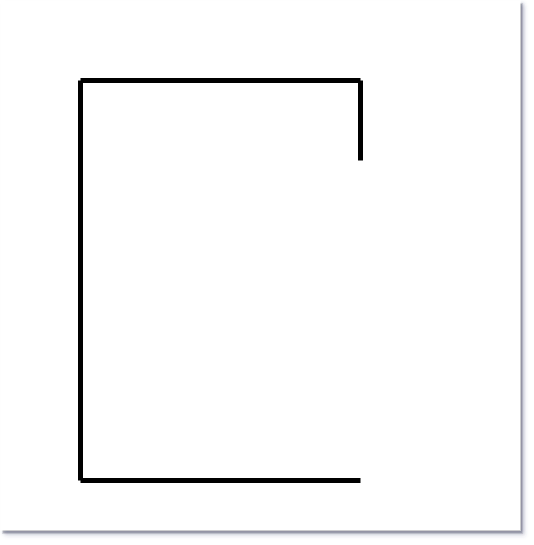
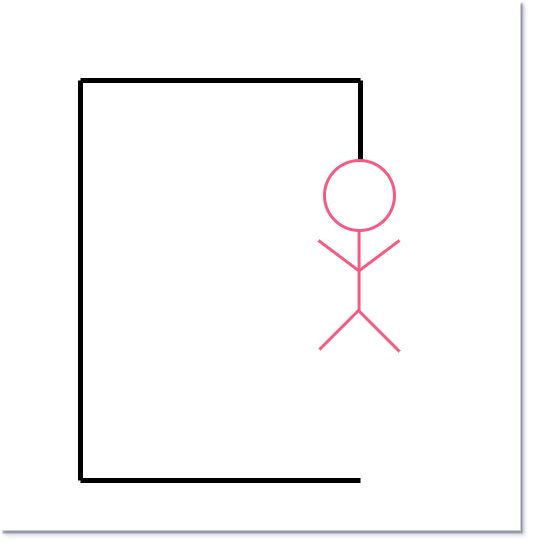
add guessGame Fuction

diff --git a/index.js b/index.js
@@ -1,9 +1,10 @@
 ;(function(){
   'use strict'
+  // Configuración
   var game = {
-    word: 'HOLA',
-    stateNum: 4,
-    state1:['L','A'],
+    word: 'ALURA',
+    stateNum: 7,
+    state1:['A','L'],
     state2:['C','J','P','O']
   }
 
@@ -18,12 +19,19 @@
   function drawGame(game){
     var $elemento
     $elemento = $html.man
-    $elemento.src = './0' + game.stateNum + '.png'
+    var stateNum = game.stateNum
+    if (stateNum === 8) {
+      // interpretamos el estado como el estado anterior
+      stateNum = game.sBack
+    }
+    $elemento.src = './0' + stateNum + '.png'
 
     // Letras adivinadas
     var word = game.word
     var state1 = game.state1
     $elemento = $html.state1
+    // Eliminar elementos anteriores
+    $elemento.innerHTML = ''
 
     for(let letter of word) {
       let $span = document.createElement('span')
@@ -39,6 +47,8 @@
     // Letras erróneas
     var state2 = game.state2
     $elemento = $html.state2
+    // Eliminar elementos anteriores
+    $elemento.innerHTML = ''
     for (let letterE of state2) {
       let $span = document.createElement('span')
       let $txt = document.createTextNode(letterE)
@@ -47,6 +57,48 @@
       $elemento.appendChild($span)
     }
   }
-  console.log(game)
+
+// Función de transición
+  function guessGame(game,letter){
+    // modificamos en la configuración anterior para ahorrar memoria, sólo actualizamos valores.
+    var stateNum = game.stateNum
+    if (stateNum === 1 || stateNum === 8) {
+      return
+    }
+    var state1 = game.state1
+    var state2 = game.state2
+    if (state1.indexOf(letter) >= 0 || state2.indexOf(letter) >= 0){
+      return
+    }
+    var word = game.word
+    if (word.indexOf(letter) >= 0 ) {
+      let youWin = true
+      for (let letterN of word) {
+        if (state1.indexOf(letterN) < 0 && letterN != letter ) {
+          youWin = false
+          game.sBack = game.stateNum
+          break
+        }
+      }
+      if (youWin) {
+        game.stateNum = 8;
+      }
+      // agregamos la letra a las letras adivinadas
+      state1.push(letter)
+    } else {
+      game.stateNum--
+      // agregamos la letra a las letras incorrectas
+      state2.push(letter)
+    }
+  }
+  window.onkeypress = function guessLetter(eventA) {
+    var letter =  eventA.key
+    letter = letter.toUpperCase()
+    if(/^[A-ZÑ]/.test()) {
+      return
+    }
+    guessGame(game, letter)
+    drawGame(game)
+  }
   drawGame(game)
 }())
